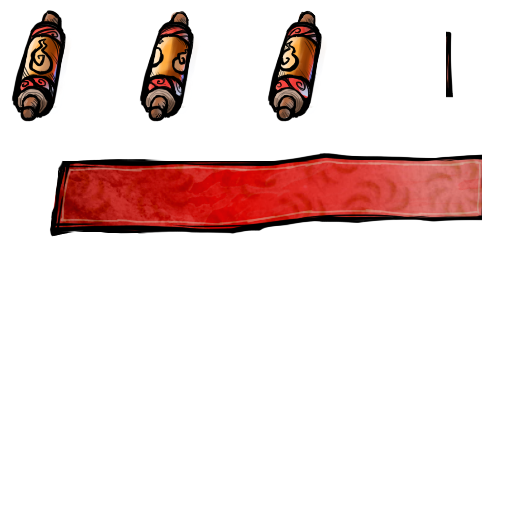
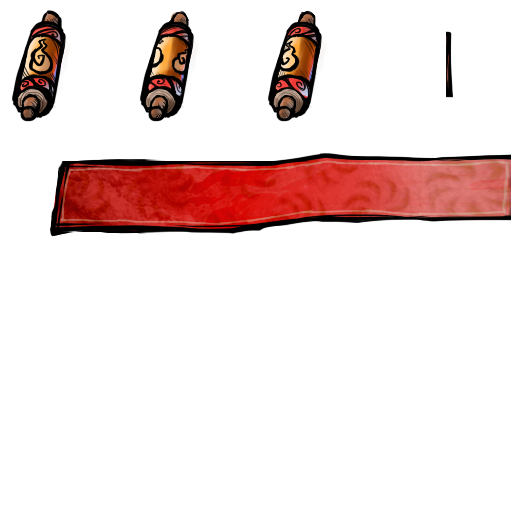
HP表示修正　Map表示修正

Changed region(s): [[0.875, 0.2812, 1.0, 0.4375]]

diff --git a/ScrollNinja/src/org/genshin/scrollninja/Interface.java b/ScrollNinja/src/org/genshin/scrollninja/Interface.java
@@ -64,7 +64,7 @@ public class Interface {
 			frame[index++] = tmp[0][i];
 		scrollAnimation = new Animation(5.0f, frame);
 		scroll = new Sprite(scrollAnimation.getKeyFrame(0, false));
-		scroll.setOrigin(scroll.getX() * 0.5f, scroll.getY() * 0.5f);
+		scroll.setOrigin(scroll.getWidth() * 0.5f, scroll.getHeight() * 0.5f);
 		scroll.setScale(0.1f);
 
 		nowFrame = scrollAnimation.getKeyFrame(0, false);
@@ -72,36 +72,38 @@ public class Interface {
 		// HP部分
 		TextureRegion tmpRegion = new TextureRegion(texture, 0, 128, 512, 128);
 		hp = new Sprite(tmpRegion);
-		hp.setOrigin(hp.getX() * 0.5f, hp.getY() * 0.5f);
+		hp.setOrigin(hp.getWidth() * 0.5f, hp.getHeight() * 0.5f);
 		hp.setScale(0.1f);
 
 		// 巻物の右端部分
 		tmpRegion = new TextureRegion(texture, 384, 0, 128, 128);
 		scrollRight = new Sprite(tmpRegion);
-		scrollRight.setOrigin(scrollRight.getX() * 0.5f, scrollRight.getY() * 0.5f);
+		scrollRight.setOrigin(scrollRight.getWidth() * 0.5f, scrollRight.getHeight() * 0.5f);
 		scrollRight.setScale(0.1f);
 
 		// ひょうたん
 		tmpRegion = new TextureRegion(texture, 0, 256, 128, 128);
 		hyoutan = new Sprite(tmpRegion);
-		hyoutan.setOrigin(hyoutan.getX() * 0.5f, hyoutan.getY() * 0.5f);
+		hyoutan.setOrigin(hyoutan.getWidth() * 0.5f, hyoutan.getHeight() * 0.5f);
 		hyoutan.setScale(0.1f);
 
 		// チャクラ
 		tmpRegion = new TextureRegion(texture, 128, 256, 128, 128);
 		chakra = new Sprite(tmpRegion);
-		chakra.setOrigin(chakra.getX() * 0.5f, chakra.getY() * 0.5f);
+		chakra.setOrigin(chakra.getWidth() * 0.5f, chakra.getHeight() * 0.5f);
 		chakra.setScale(0.1f);
 
 		// マップ ワールドマップ or ミニマップ
 		TextureRegion maptmpRegion = new TextureRegion(maptexture);
 		map = new Sprite(maptmpRegion);
-		map.setOrigin(scrollRight.getX() , scrollRight.getY());
+		map.setOrigin(map.getWidth() * 0.5f , map.getHeight() * 0.5f);
+		map.setScale(0.01f);
 
 		// ポーズ終了
 		TextureRegion pauseRegion = new TextureRegion(pausetexture);
 		quitPause = new Sprite(pauseRegion);
-		quitPause.setOrigin(scrollRight.getX(),scrollRight.getY());
+		quitPause.setOrigin(quitPause.getWidth() * 0.5f, quitPause.getHeight() * 0.5f);
+		quitPause.setScale(0.1f);
 
 		// 最初の設定；
 		percentHP = 1;
@@ -113,21 +115,27 @@ public class Interface {
 		transrateX = 0;
 		stopHP = true;
 
-		pauseFlag = false;
-
 		stateTime = 0;
 	}
 
 	public void update() {
-		// 描画位置セット
-		scroll.setPosition(GameMain.camera.position.x - (ScrollNinja.window.x * 0.5f * 0.1f),
-						   GameMain.camera.position.y  - 12.8f + (ScrollNinja.window.y * 0.5f * 0.1f));
-		hp.setPosition(scroll.getX() - transrateX, scroll.getY());
-		scrollRight.setPosition(scroll.getX() + 42f - transrateX, scroll.getY() + 0.5f);
+		Vector2 cameraPosition = new Vector2(GameMain.camera.position.x, GameMain.camera.position.y);
+		scroll.setPosition(cameraPosition.x - 64 - (ScrollNinja.window.x * 0.5f * 0.1f - 6.4f),
+										cameraPosition.y - 64 + (ScrollNinja.window.y * 0.5f * 0.1f -6.4f));
+		hp.setPosition(cameraPosition.x - 256 - (ScrollNinja.window.x * 0.5f * 0.1f - 25.6f) - transrateX,
+										cameraPosition.y - 64 + (ScrollNinja.window.y * 0.5f * 0.1f -6.4f));
+		scrollRight.setPosition(cameraPosition.x - 64 - (ScrollNinja.window.x * 0.5f * 0.1f - 6.4f) + 44.5f - transrateX,
+										cameraPosition.y - 64 + (ScrollNinja.window.y * 0.5f * 0.1f -6.4f));
+		/*
 		hyoutan.setPosition(scroll.getX() + 51.2f, scroll.getY());
 		chakra.setPosition(hyoutan.getX(), hyoutan.getY());
+		*/
+
 		// 位置調整
-		map.setPosition(scroll.getX() + 60.0f, scroll.getY() + -5.0f);
+		map.setPosition(cameraPosition.x - map.getWidth() * 0.5f + (ScrollNinja.window.x * 0.5f * 0.1f)
+																			- map.getWidth() * 0.5f * 0.01f,
+						cameraPosition.y - map.getHeight() * 0.5f + (ScrollNinja.window.y * 0.5f * 0.1f)
+																			- map.getHeight() * 0.5f * 0.01f);
 
 		// HPに変動があれば計算
 		if (calculateHP)
@@ -140,9 +148,8 @@ public class Interface {
 		// HP回復　1フレームで0.01ずつ増加
 		if ( !stopHP && countHP < 0 ) {
 			countHP += 0.01f;
-			hp.scroll(0.01f, 0);
-			transrateX -= 0.51f;
-			hp.translateX(0.51f);
+			hp.scroll(0.0085f, 0);
+			transrateX -= 0.45f;
 
 			stateTime += 1;
 			scrollAnimation.setPlayMode(Animation.LOOP_REVERSED);
@@ -155,9 +162,8 @@ public class Interface {
 		// HP減る　1フレームで0.01ずつ減少
 		if ( !stopHP && countHP > 0 ) {
 			countHP -= 0.01f;
-			hp.scroll(-0.01f, 0);
-			transrateX += 0.51f;
-			hp.translateX(-0.51f);
+			hp.scroll(-0.0085f, 0);
+			transrateX += 0.45f;
 
 			stateTime += 1;
 			scrollAnimation.setPlayMode(Animation.LOOP);
@@ -182,7 +188,7 @@ public class Interface {
 		if (stateTime > 60)
 			stateTime = 0;
 
-		// ポーズ
+		// マップの表示
 		Map();
 	}
 
@@ -222,35 +228,38 @@ public class Interface {
 		}
 
 		if(Gdx.input.isKeyPressed(Keys.M)) {
-			// マップを表示
-			// ゲーム進行をストップ
 			pauseFlag = true;
 		}
+
 		if(pauseFlag) {
-			map.setScale(0.04f);
+			map.setScale(0.05f);
 			/*
 			 * マップの絵ができたら座標など変更する
 			 * (512*512)
 			 * */
-			map.setPosition(scroll.getX(), scroll.getY() - 65);
-			quitPause.setScale(0.1f);
-			quitPause.setPosition(scroll.getX() + 50 ,scroll.getY() + 5);
+			map.setPosition(GameMain.camera.position.x - map.getWidth() * 0.5f,
+					GameMain.camera.position.y - map.getHeight() * 0.5f);
+			quitPause.setPosition(GameMain.camera.position.x - quitPause.getWidth() * 0.5f +
+									ScrollNinja.window.x * 0.5f * 0.1f - quitPause.getWidth() * 0.5f * 0.1f,
+					GameMain.camera.position.y - quitPause.getHeight() * 0.5f +
+									ScrollNinja.window.y * 0.5f * 0.1f - quitPause.getHeight() * 0.5f * 0.1f);
+
+			// ゲーム進行をストップ
+			GameMain.gameState = GameMain.GAME_PAUSED;
 		}
 		else {
-			map.setScale(0.009f);
+			// 解除されたらマップサイズ戻す
+			map.setScale(0.01f);
 		}
 	}
 
-	public boolean GetPauseFlag() {
-		return pauseFlag;
-	}
 	public void SetPauseFlag(boolean pauseflag) {
 		pauseFlag = pauseflag;
 	}
 
 	public void Draw() {
-		scrollRight.draw(GameMain.spriteBatch);
 		hp.draw(GameMain.spriteBatch);
+		scrollRight.draw(GameMain.spriteBatch);
 		scroll.draw(GameMain.spriteBatch);
 		chakra.draw(GameMain.spriteBatch);
 		hyoutan.draw(GameMain.spriteBatch);

diff --git a/ScrollNinja/src/org/genshin/scrollninja/GameMain.java b/ScrollNinja/src/org/genshin/scrollninja/GameMain.java
@@ -44,11 +44,11 @@ public class GameMain implements Screen{
 	private long			newTime			= System.currentTimeMillis() << 16;
 	private long			oldTime;
 	private long			sleepTime		= idealSleep - (newTime - oldTime) - error; // 休止できる時間
-	
+
 	// 仮
-	public int gamestate;
-	public final static int GAME	= 0;
-	public final static int PAUSE	= 1;
+	public static int gameState;
+	public final static int GAME_RUNNING	= 0;	// ゲーム中
+	public final static int GAME_PAUSED		= 1;	// 一時停止中
 
 	// コンストラクタ
 	public GameMain(Game game, int stageNum) {
@@ -63,6 +63,8 @@ public class GameMain implements Screen{
 		StageManager.StageTrance(stage);
 		StageManager.GetNowStage().Init();
 		BackgroundManager.CreateBackground(stageNum);
+
+		gameState = GAME_RUNNING;
 	}
 
 	//************************************************************
@@ -79,19 +81,19 @@ public class GameMain implements Screen{
 	//************************************************************
 	@Override
 	public void render(float delta) {
-		oldTime = newTime;
+		switch (gameState) {
+		case GAME_RUNNING:
+			oldTime = newTime;
 
-		if(!PauseFlag) {
-		PauseFlag = playerInfo.GetPauseFlag();
-		StageManager.Update();
-		StageManager.Draw();
-		//updateCamera();
+			StageManager.Update();
+			StageManager.Draw();
+
+			FPS();
+			break;
+		case GAME_PAUSED:
+			updatePaused();
+			break;
 		}
-		else {
-			pause();
-		}
-		
-		FPS();
 	}
 
 	//************************************************************
@@ -111,9 +113,34 @@ public class GameMain implements Screen{
 		newTime = System.currentTimeMillis() << 16;
 		error = newTime - oldTime - sleepTime; // 休止時間の誤差
 	}
-	
-	public boolean GetPauseFlag() {
-		return PauseFlag;
+
+	/**
+	 * updatePaused
+	 * マップ表示中は他の描画をしない
+	 */
+	// TODO ぶれるので調整必要
+	public void updatePaused() {
+		// ポーズしたら全画面マップ表示
+
+		// Lキーでポーズ解除（仮
+		if(Gdx.input.isKeyPressed(Keys.L)) {
+			playerInfo.SetPauseFlag(false);
+			gameState = GAME_RUNNING;
+		}
+
+		if(Gdx.input.isTouched()) {
+			int x = Gdx.input.getX();
+			int y = Gdx.input.getY();
+
+			if(x > 530 && y < 70) {
+				// ポーズボタンがあったらそこに座標を合わせる
+				/*
+				 * 10/19 手裏剣の位置をクリックしたら(仮)
+				 * */
+				playerInfo.SetPauseFlag(false);
+				gameState = GAME_RUNNING;
+			}
+		}
 	}
 
 	@Override
@@ -123,37 +150,17 @@ public class GameMain implements Screen{
 	public void show() {}
 
 	@Override
-	public void hide() {
-	}
+	public void hide() {}
 
 	@Override
 	public void pause() {
-		
-		// ポーズしたら全画面マップ表示
-		if(Gdx.input.isKeyPressed(Keys.L)) {
-			PauseFlag = false;
-		}
-		if(Gdx.input.isTouched()) {
-			
-			int x = Gdx.input.getX();
-			int y = Gdx.input.getY();
-			
-			if(x > 510 && x < 550 && y > 30 && y < 68) {
-				// ポーズボタンがあったらそこに座標を合わせる
-				/*
-				 * 10/19 手裏剣の位置をクリックしたら(仮)
-				 * */
-				PauseFlag = false;
-			}
-		}
-		if(!PauseFlag)
-			playerInfo.SetPauseFlag(PauseFlag);
+		if (gameState == GAME_RUNNING)
+			gameState = GAME_PAUSED;
 	}
 
 	@Override
 	public void resume() {}
 
 	@Override
-	public void dispose() {
-	}
+	public void dispose() {}
 }

diff --git a/ScrollNinja/src/org/genshin/scrollninja/Enemy.java b/ScrollNinja/src/org/genshin/scrollninja/Enemy.java
@@ -196,7 +196,7 @@ public class Enemy extends CharacterBase {
 
 		// ボディ設定
 		FixtureDef fd	= new FixtureDef();
-		fd.density		= 10;
+		fd.density		= 0;
 		fd.friction		= 0;
 		fd.restitution	= 0;
 		fd.shape		= poly;
@@ -392,7 +392,7 @@ public class Enemy extends CharacterBase {
 	**************************************************/
 	public void AutoEnemy() {
 	}
-	
+
 	/**************************************************
 	 * 点滅処理
 	 **************************************************/

diff --git a/ScrollNinja/src/org/genshin/scrollninja/Player.java b/ScrollNinja/src/org/genshin/scrollninja/Player.java
@@ -214,7 +214,7 @@ public class Player extends CharacterBase {
 		sprite.get(FOOT).setRegion(nowFootFrame);
 
 		int prevState = currentState;
-		System.out.println(hp);
+		//System.out.println(hp);
 
 		if( !groundJudge ) body.applyLinearImpulse(0.0f, FALL_SPEED, position.x, position.y);	// 落下処理
 		if( invincibleTime > 0 ) invincibleTime --;		// 無敵時間の減少S
